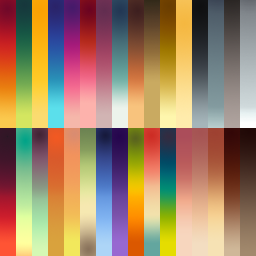
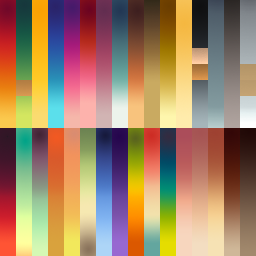
feat(char): recolor chibi castaway to our young/hopeful identity (86ca8ca1m)
Repaint the bound 256² toon atlas (mini_material_baseColor.png) per-UV-cell so
the chibi reads as OUR young/hopeful washed-ashore castaway, not the generic
green-cap kid. Region->cell map derived empirically by a bone-influence UV probe
(diagnose-via-trace before editing).

Cells recolored (gradient toon-shade preserved; base hue shifted, all channels
sub-1.0):
- shirt (col15,row11 + sleeve col15,row10): light grey -> warm khaki, the U2-6
  anchor (0.72,0.60,0.42), luma 0.61 >0.6
- hair (col12,row11) + former green cap (col1,row10): -> sandy/ginger (restyled
  the cap toward warm hair)
- feet (col12,row12): dark shoes -> bare-feet skin tan (luma 0.70)
- skin/eyes (sclera white, brow dark) untouched; navy trousers kept as the
  identity teal-blue read

Technique: PIL per-cell luma-preserving hue remap of the standalone atlas PNG
(probe-verified: both materials bind this asset on _BaseMap, NOT the .fbm/
extract). Repainting the atlas keeps the flat toon gradient — a per-material
tint would have flattened it (the trap CastawayCharacter.cs warned of).

Identity guard restored (the chibi default look had NONE): new EditMode test
Atlas_RecoloredToYoungHopefulIdentity_NotGreenCapKid re-samples the recolored
cells and fails CI on drift back to grey shirt / green cap / dark shoes; carries
the dropped Quaternius shirt-luma>0.6 anchor onto the chibi.

EditMode 104/104, PlayMode 30/30 local.

Changed region(s): [[0.9375, 0.25, 1.0, 0.375], [0.75, 0.1875, 0.8125, 0.3125], [0.0625, 0.3125, 0.125, 0.375]]

diff --git a/Assets/Tests/EditMode/CastawayCharacterTests.cs b/Assets/Tests/EditMode/CastawayCharacterTests.cs
@@ -28,9 +28,14 @@ namespace FarHorizon.EditTests
     ///      back to a realistic ~7-8-heads base (replaces the base-specific shirt-luma identity guard,
     ///      which was for the Quaternius recolor and does NOT apply to the chibi's default look).
     ///
-    /// NOTE on dropped guards: the prior base's shirt-luminance (>0.6) identity guard + the 6-part
-    /// recolor / per-part-smoothness asserts are REMOVED — they were specific to the Quaternius mesh's
-    /// 6 material slots + the recolor we no longer apply (we ship the chibi's default toon look).
+    ///   6. The IDENTITY RECOLOR guard (86ca8ca1m): the atlas PNG's repainted UV cells read as OUR
+    ///      young/hopeful castaway — warm khaki shirt (the U2-6 luma >0.6 anchor, re-carried onto the
+    ///      chibi), sandy-ginger hair+cap (not the green-cap kid), bare-feet skin (not dark shoes).
+    ///
+    /// NOTE on guards: the prior base's 6-part recolor / per-part-smoothness asserts are gone (chibi has
+    /// its own toon materials). The Quaternius shirt-luminance (>0.6) identity guard is NOW RE-CARRIED
+    /// onto the chibi via guard #6 (atlas-cell re-sample) — the chibi's default look had NO identity
+    /// guard; the recolor restores one.
     /// </summary>
     public class CastawayCharacterTests
     {
@@ -202,11 +207,11 @@ namespace FarHorizon.EditTests
                 $"the feet must sit near the model origin (feetY={feetY:F3}) so localPosition zero grounds them");
         }
 
-        // The TOON-ATLAS guard (replaces the prior base's recolor guard): the chibi's imported
-        // materials must bind the flat toon atlas (mini_material_baseColor) on _BaseMap. The chibi
-        // ships its OWN toon materials (we do NOT recolor — identity is out of scope); this catches the
-        // flat toon look silently lost to a missing-texture grey (a recolor regression or an importer
-        // change dropping the embedded texture).
+        // The TOON-ATLAS guard: the chibi's imported materials must bind the flat toon atlas
+        // (mini_material_baseColor) on _BaseMap. The identity recolor (86ca8ca1m) repaints cells of THIS
+        // atlas — so the binding must survive; this catches the flat toon look silently lost to a
+        // missing-texture grey (an importer change dropping the texture). The per-cell identity colours
+        // are asserted separately by Atlas_RecoloredToYoungHopefulIdentity_NotGreenCapKid.
         [Test]
         public void Fbx_ImportedMaterials_BindTheToonAtlas()
         {
@@ -252,6 +257,62 @@ namespace FarHorizon.EditTests
                 $"the shipped castaway must read CHUNKY (heads-tall {heads:F2} in the toy band " +
                 $"{CastawayProportions.MinHeadsTall}-{CastawayProportions.MaxHeadsTall}) — a realistic " +
                 "~7-8-heads value means a regression to a non-chunky base");
+        }
+
+        // The IDENTITY RECOLOR guard (ticket 86ca8ca1m — restores an identity guard for the chibi,
+        // which previously had NONE since its default look was shipped as-is). The atlas was repainted
+        // so the chibi reads as OUR young/hopeful castaway — NOT the generic green-cap kid: warm khaki
+        // shirt (the U2-6 anchor luma >0.6), sandy-ginger hair+cap, bare-feet skin. This re-samples the
+        // recolored UV cells in the bound atlas PNG and fails CI on any drift back toward the kid look
+        // (a grey shirt, a green cap, dark shoes). It reads the SAME atlas the materials bind on _BaseMap
+        // (probe-verified path), so a regression that drops/replaces the recolored texture is caught.
+        [Test]
+        public void Atlas_RecoloredToYoungHopefulIdentity_NotGreenCapKid()
+        {
+            // Read the bound atlas PNG bytes directly (texture isReadable=0, so load into a readable copy).
+            string path = CharacterAssetGen.AtlasPngPath;
+            Assert.IsTrue(System.IO.File.Exists(path), "the bound atlas PNG must exist at " + path);
+            var tex = new Texture2D(2, 2);
+            Assert.IsTrue(tex.LoadImage(System.IO.File.ReadAllBytes(path)), "atlas PNG must decode");
+            int W = tex.width, H = tex.height;
+
+            // Sample the CENTRE of a 16x16 UV cell. UV origin is bottom-left (v up); GetPixel uses the
+            // same bottom-up convention, so cell (col,row) centre samples directly.
+            Color CellCentre(Vector2Int cell)
+            {
+                int px = Mathf.Clamp((int)((cell.x + 0.5f) / 16f * W), 0, W - 1);
+                int py = Mathf.Clamp((int)((cell.y + 0.5f) / 16f * H), 0, H - 1);
+                return tex.GetPixel(px, py);
+            }
+            float Luma(Color c) => 0.2126f * c.r + 0.7152f * c.g + 0.0722f * c.b;
+
+            var shirt = CellCentre(CharacterAssetGen.ShirtCell);
+            var hair = CellCentre(CharacterAssetGen.HairCell);
+            var cap = CellCentre(CharacterAssetGen.CapCell);
+            var feet = CellCentre(CharacterAssetGen.FeetCell);
+            Object.DestroyImmediate(tex);
+
+            // SHIRT: warm khaki, luma >0.6 (the U2-6 identity benchmark; carries the dropped Quaternius
+            // shirt-luma guard onto the chibi). Warm = R>G>B (no grizzled/grey drift).
+            Assert.Greater(Luma(shirt), 0.6f,
+                $"shirt must be warm/bright (luma {Luma(shirt):F2} <= 0.6 = grey-tee/grizzled drift toward the kid look)");
+            Assert.Greater(shirt.r, shirt.g,
+                $"shirt must read WARM khaki (R>G); got rgb({shirt.r:F2},{shirt.g:F2},{shirt.b:F2})");
+            Assert.Greater(shirt.g, shirt.b,
+                $"shirt must read WARM khaki (G>B); got rgb({shirt.r:F2},{shirt.g:F2},{shirt.b:F2})");
+
+            // HAIR + CAP: sandy/ginger — warm (R>G>B), NOT the kid's green cap. A green cap fails R>G.
+            Assert.Greater(hair.r, hair.b,
+                $"hair must be warm sandy/ginger (R>B); got rgb({hair.r:F2},{hair.g:F2},{hair.b:F2})");
+            Assert.Greater(cap.r, cap.g,
+                $"the former green cap must be recolored warm (R>G — green has G>R); got rgb({cap.r:F2},{cap.g:F2},{cap.b:F2})");
+
+            // BARE FEET: skin tan (warm + bright), NOT the kid's dark shoes. Dark shoes fail luma>0.5.
+            Assert.Greater(Luma(feet), 0.5f,
+                $"feet must be bare skin tan, not dark shoes (luma {Luma(feet):F2} <= 0.5 = shoes); " +
+                $"rgb({feet.r:F2},{feet.g:F2},{feet.b:F2})");
+            Assert.Greater(feet.r, feet.b,
+                $"bare-feet skin must read warm (R>B); got rgb({feet.r:F2},{feet.g:F2},{feet.b:F2})");
         }
 
         // Blob-shadow SCENE-PRESENCE guard (the component-not-serialized-into-scene failure class,

diff --git a/Assets/Scripts/Editor/CharacterAssetGen.cs b/Assets/Scripts/Editor/CharacterAssetGen.cs
@@ -25,9 +25,13 @@ namespace FarHorizon.EditorTools
     ///      equality (exact-match loops ZERO clips — the T-pose-mid-walk failure class, see the guard).
     ///   2. The material atlas binds out of the box: ImportStandard imports two URP/Lit materials
     ///      (mini_material / mini_material_secondary) with _BaseMap = mini_material_baseColor (the 256²
-    ///      toon atlas) — verified by probe. We KEEP the FBX's own flat toon materials (no recolor:
-    ///      identity/recolor is OUT OF SCOPE per the ticket — ship the kid's default look). We DO assert
-    ///      the atlas binds (a regression to a missing-texture grey would fail the import).
+    ///      toon atlas) — verified by probe. We KEEP the FBX's own flat toon materials + atlas; the
+    ///      IDENTITY RECOLOR (ticket 86ca8ca1m) is done by REPAINTING specific UV cells of the atlas PNG
+    ///      itself (shirt -> warm khaki, hair/cap -> sandy-ginger, shoes -> bare-feet skin) — NOT by
+    ///      replacing the materials (a per-material tint would WIPE the gradient toon-shade to a flat
+    ///      colour). So the chibi reads as OUR young/hopeful castaway, not the generic green-cap kid,
+    ///      while the flat toon look survives. We assert the atlas binds (missing-texture grey fails the
+    ///      import) AND the identity guard re-samples the recolored cells (see CastawayCharacterTests).
     ///   3. Build an AnimatorController asset with an Idle&lt;-&gt;Walk blend driven by a "Moving" bool,
     ///      cross-faded so the gait reads (no hard pop). CastawayCharacter.SetBool("Moving", ...) flips it.
     ///
@@ -59,6 +63,23 @@ namespace FarHorizon.EditorTools
         // The toon atlas the imported materials bind. Asserted present so a missing-texture grey
         // regression (the flat toon look silently lost) fails the import.
         public const string AtlasTextureName = "mini_material_baseColor";
+
+        // The standalone atlas PNG path the imported materials actually bind on _BaseMap (probe-verified:
+        // Unity remaps the FBX materials to this asset, NOT the .fbm/ embedded extract — so this is the
+        // file the recolor edits). Identity recolor (ticket 86ca8ca1m) repaints specific UV cells here.
+        public const string AtlasPngPath = "Assets/Art/Character/MiniChibiKid/mini_material_baseColor.png";
+
+        // IDENTITY RECOLOR — atlas UV cells (16x16 grid of vertical-gradient toon-shade cells), mapped by
+        // a per-region bone-influence probe (86ca8ca1m). UV origin bottom-left; cell (colX,rowY) covers
+        // UV x in [colX/16,(colX+1)/16], v in [rowY/16,(rowY+1)/16]. These are the recolor TARGETS the
+        // identity guard re-samples — keeping the SHIPPED look and the guard reading the SAME source.
+        //   Shirt (torso + rolled sleeve): warm khaki, the U2-6 anchor (0.72,0.60,0.42), luma >0.6.
+        //   Hair + cap: sandy/ginger (the green-cap kid restyled toward warm hair).
+        //   Bare feet: skin tan (vs the kid's dark shoes).
+        public static readonly Vector2Int ShirtCell = new Vector2Int(15, 11); // torso shirt
+        public static readonly Vector2Int HairCell = new Vector2Int(12, 11);  // hair mass
+        public static readonly Vector2Int CapCell = new Vector2Int(1, 10);    // former green cap -> warm hair
+        public static readonly Vector2Int FeetCell = new Vector2Int(12, 12);  // bare feet (was shoes)
 
         // Normalize the FBX's intrinsic import height to ~1 world-unit so the avatar-root scale maps
         // directly onto on-screen height (the camera/NavMesh/grounding are calibrated to ~1u). The chibi
@@ -92,9 +113,10 @@ namespace FarHorizon.EditorTools
             importer.avatarSetup = ModelImporterAvatarSetup.CreateFromThisModel;
             importer.importAnimation = true;
             importer.importBlendShapes = false;
-            // Keep the FBX's own flat toon materials + the embedded 256² atlas (ImportStandard binds
-            // _BaseMap = mini_material_baseColor — verified by probe). Identity/recolor is OUT OF SCOPE:
-            // ship the kid's DEFAULT look (cap/grey tee/navy shorts/tan skin).
+            // Keep the FBX's own flat toon materials + the 256² atlas (ImportStandard binds
+            // _BaseMap = mini_material_baseColor — verified by probe). The IDENTITY RECOLOR (86ca8ca1m)
+            // lives in the atlas PNG's repainted cells (warm khaki shirt / sandy-ginger hair+cap /
+            // bare-feet skin), so the toon-shade gradient survives — we do NOT replace the materials.
             importer.materialImportMode = ModelImporterMaterialImportMode.ImportStandard;
 
             // HEIGHT NORMALIZATION: measure the imported model's intrinsic height + set globalScale so